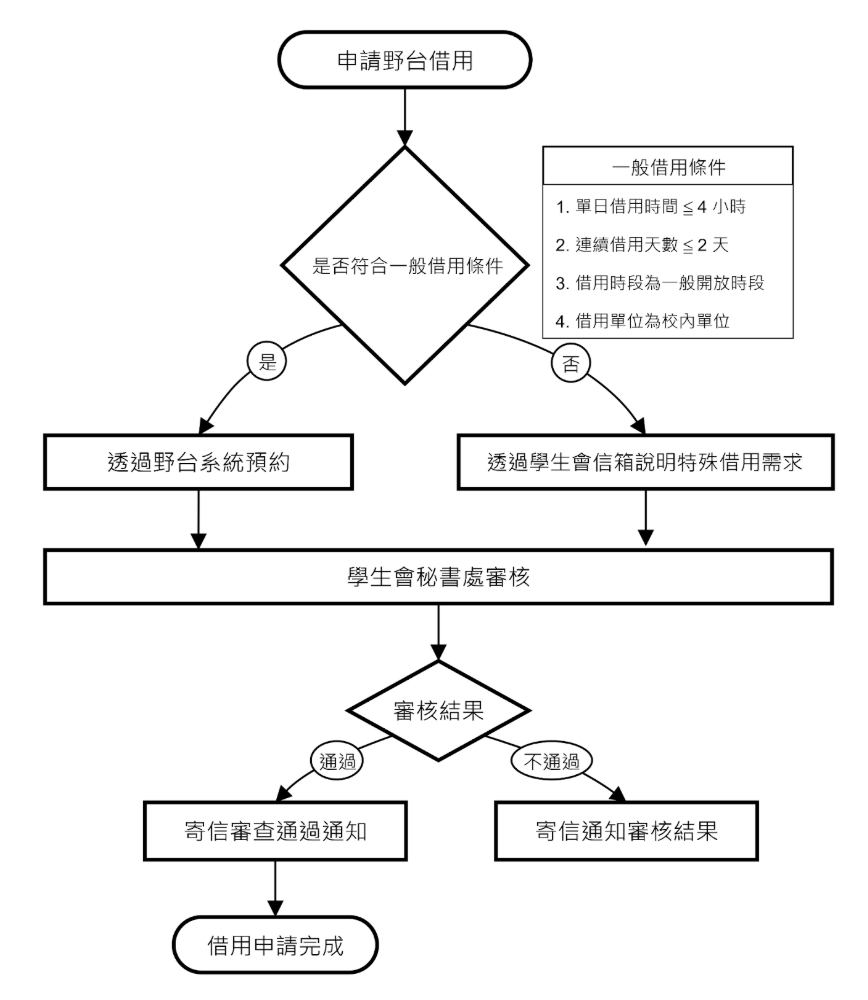
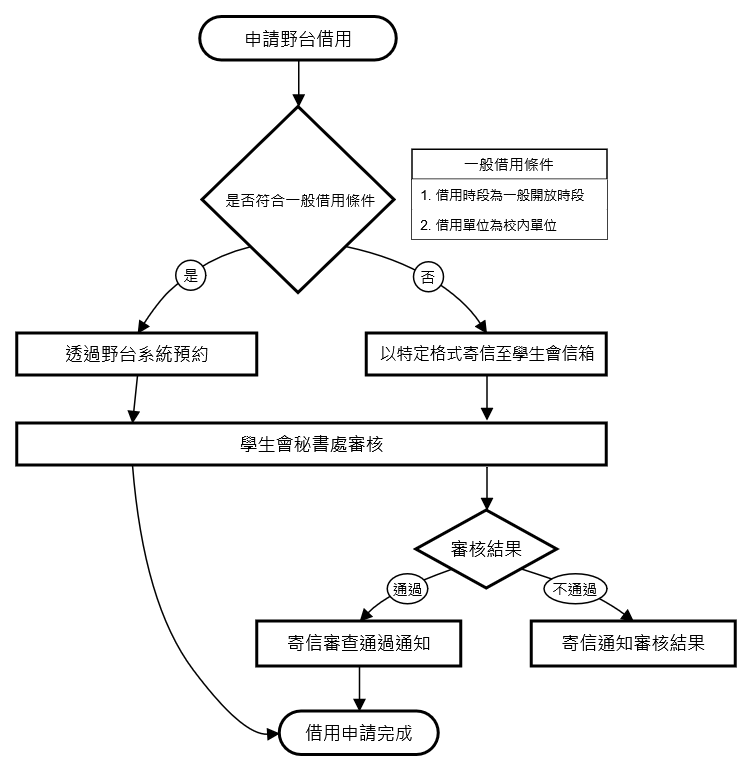
feat: update rule page

diff --git a/src/app/dashboard/rules/page.tsx b/src/app/dashboard/rules/page.tsx
@@ -54,11 +54,10 @@ export default function RulesPage() {
               <p className="text-sm leading-relaxed">
                 野台可透過本系統借用之時段為{" "}
                 <span className="font-semibold text-red-600">每日 8:00 A.M. 至 10:00 P.M.</span>
-                ，一日原則上最多借用{" "}
+                ，每日原則上最多借用{" "}
                 <span className="font-semibold text-red-600">4 小時</span>
-                ，一個月最多借用{" "}
-                <span className="font-semibold text-red-600">12 天</span>
-                ，若一次需借用 3 日以上或系統故障，請致信學生會信箱申請。
+                ，每個月最多借用{" "}
+                <span className="font-semibold text-red-600">12 天</span>。
               </p>
             </div>
             <div className="flex gap-3">
@@ -72,20 +71,22 @@ export default function RulesPage() {
             <div className="flex gap-3">
               <Badge variant="outline" className="shrink-0 mt-0.5">3</Badge>
               <p className="text-sm leading-relaxed">
-                若需借用{" "}
-                <span className="font-semibold">非開放時段</span>{" "}
-                或{" "}
-                <span className="font-semibold">連日借用</span>
-                ，請寄信至學生會信箱說明需求，經審核同意後方可借用。
-              </p>
-            </div>
-            <div className="flex gap-3">
-              <Badge variant="outline" className="shrink-0 mt-0.5">4</Badge>
-              <p className="text-sm leading-relaxed">
                 若需取消或異動，請於{" "}
                 <span className="font-semibold text-red-600">借用日前 2 日</span>{" "}
                 聯繫學生會。
               </p>
+            </div>
+            <div className="flex gap-3">
+              <Badge variant="outline" className="shrink-0 mt-0.5">4</Badge>
+              <div className="text-sm leading-relaxed">
+                <p>有下列情形，請依第六點「聯繫方式與例外申請」之規定辦理：</p>
+                <ul className="list-disc pl-5 mt-1 text-muted-foreground">
+                  <li>需借用非開放時段</li>
+                  <li>系統無法使用或發生異常</li>
+                  <li>其他特殊情形</li>
+                </ul>
+                <p className="mt-1">學生會得依申請內容及實際情況審核後決定是否同意借用。</p>
+              </div>
             </div>
           </div>
         </CardContent>
@@ -115,20 +116,11 @@ export default function RulesPage() {
               <Badge variant="outline" className="shrink-0 mt-0.5">2</Badge>
               <div className="text-sm leading-relaxed">
                 <p>
-                  校外單位以收費為借用原則，每{" "}
-                  <span className="font-semibold">2 小時</span>{" "}
-                  為一單位，不足 2 小時以 2 小時計，費用為{" "}
-                  <span className="font-semibold text-red-600">新臺幣 500 元整</span>
-                  ，若有特殊需求或價格疑問請透過學生會信箱說明。
+                  <span className="font-semibold">校外單位不得透過本系統申請借用野台。</span>
+                  <br />
+                  如有借用需求，應依第六點「聯繫方式與例外申請」之規定提出申請，經學生會審核後辦理借用事宜。
                 </p>
               </div>
-            </div>
-            <div className="flex gap-3">
-              <Badge variant="outline" className="shrink-0 mt-0.5">3</Badge>
-              <p className="text-sm leading-relaxed">
-                校外單位將繳費證明寄給學生會信箱期限在{" "}
-                <span className="font-semibold text-red-600">活動結束後 2 日前</span>。
-              </p>
             </div>
           </div>
         </CardContent>
@@ -144,14 +136,16 @@ export default function RulesPage() {
         </CardHeader>
         <CardContent className="space-y-4">
           <p className="text-sm leading-relaxed">
-            野台分區從面對小吃部方向，分為{" "}
-            <span className="font-semibold">「中間、左邊、右邊、座椅區」</span>{" "}
-            共四區，每次借用{" "}
-            <span className="font-semibold text-red-600">以一區為原則且不得跨區使用</span>
-            ，若有特殊借用需求可透過學生會信箱寄信提出。
+            野台分區以面對小吃部方向為準，分為{" "}
+            <span className="font-semibold" style={{ color: "#dca43c" }}>「右區」</span>、
+            <span className="font-semibold" style={{ color: "#467e39" }}>「中間區」</span>、
+            <span className="font-semibold" style={{ color: "#b642c0" }}>「左區」</span>、
+            <span className="font-semibold" style={{ color: "#332c9b" }}>「座位區」</span>{" "}
+            共四區。<br />
+            每次借用 <span className="font-semibold text-red-600">以一區為原則且不得跨區使用</span>。
           </p>
           <p className="text-sm leading-relaxed text-muted-foreground">
-            若有同時段不同借用者同時使用野台情況，請自行協調或透過學生會信箱向另一借用單位協調借用區域範圍。
+            如有同時借用多區或其他特殊需求者，請依第六點「聯繫方式與例外申請」之規定辦理。
           </p>
 
           {/* 野台位置示意圖 placeholder */}
@@ -181,12 +175,12 @@ export default function RulesPage() {
         </CardContent>
       </Card>
 
-      {/* 四、使用規範與器材 */}
+      {/* 四、使用規範 */}
       <Card>
         <CardHeader>
           <CardTitle className="flex items-center gap-2">
             <Zap className="h-5 w-5" />
-            四、使用規範與器材
+            四、使用規範
           </CardTitle>
         </CardHeader>
         <CardContent className="space-y-4">
@@ -195,10 +189,9 @@ export default function RulesPage() {
               <Badge variant="outline" className="shrink-0 mt-0.5">1</Badge>
               <div className="text-sm leading-relaxed">
                 <p>
-                  <span className="font-semibold">電力使用：</span>
-                  僅提供{" "}
-                  <span className="font-semibold">3 個 110V 插頭</span>
-                  。若有大型用電需求，請務必事前與學生會商議並取得同意。
+                  野台提供 {" "}
+                  <span className="font-semibold">3 個 110V 插座</span>位於無障礙坡道牆面，插座位置如分區示意圖所標示。
+                  若有大型用電需求，請務必事前與學生會商議並取得同意方可使用。
                 </p>
               </div>
             </div>
@@ -206,8 +199,11 @@ export default function RulesPage() {
               <Badge variant="outline" className="shrink-0 mt-0.5">2</Badge>
               <div className="text-sm leading-relaxed">
                 <p>
-                  <span className="font-semibold">器材準備：</span>
-                  學生會僅提供「場地」，不提供桌椅等器材。如有需求請參考「課外組器材管理要點」自行籌措。
+                  學生會僅提供「場地」，不提供桌椅等器材。如有需求請參考「課外組器材管理要點」，於{" "}
+                  <a href="https://club.site.nthu.edu.tw/" target="_blank" rel="noreferrer" className="text-blue-600 hover:underline dark:text-blue-400 font-semibold">
+                    國立清華大學社團管理系統
+                  </a>{" "}
+                  申請租借器材。
                 </p>
               </div>
             </div>
@@ -215,8 +211,7 @@ export default function RulesPage() {
               <Badge variant="outline" className="shrink-0 mt-0.5">3</Badge>
               <div className="text-sm leading-relaxed">
                 <p>
-                  <span className="font-semibold">場地恢復：</span>
-                  借用單位須負場地安全與整潔責任。使用結束時，須將物品淨空並恢復原狀。若造成場地或設施損壞，須負修復或賠償責任。
+                  借用單位須負場地安全與整潔責任。使用結束時，須將物品淨空並恢復借用前狀況。若造成場地或設施損壞，須負修復或賠償責任。
                 </p>
               </div>
             </div>
@@ -271,22 +266,41 @@ export default function RulesPage() {
           </div>
         </CardContent>
       </Card>
-
-      {/* 聯繫資訊 */}
+六、例外申請及聯繫方式 */
       <Card>
         <CardHeader>
           <CardTitle className="flex items-center gap-2">
             <Mail className="h-5 w-5" />
-            聯繫方式
+            六、例外申請及聯繫方式
           </CardTitle>
         </CardHeader>
-        <CardContent>
-          <p className="text-sm leading-relaxed">
-            如有任何問題或特殊需求，請寄信至學生會信箱：
-            <a href={`mailto:${SA_EMAIL}`} className="ml-1 font-semibold text-blue-600 hover:underline dark:text-blue-400">
-              {SA_EMAIL}
-            </a>
-          </p>
+        <CardContent className="space-y-4">
+          <div className="space-y-2">
+            <h4 className="font-semibold text-sm bg-secondary/50 p-2 rounded w-fit">【校內單位特殊申請】（限學生社團及校內單位）</h4>
+            <p className="text-sm text-muted-foreground">如有下列情形，請依本點規定提出申請：</p>
+            <ul className="list-disc pl-5 text-sm space-y-1">
+              <li>借用非開放時段</li>
+              <li>同時段借用多區</li>
+              <li>系統無法使用或發生異常</li>
+              <li>其他特殊情形</li>
+            </ul>
+            <p className="text-sm">學生會得依申請內容及實際情況審核後決定是否同意借用。</p>
+          </div>
+
+          <div className="space-y-2">
+            <h4 className="font-semibold text-sm bg-secondary/50 p-2 rounded w-fit">【校外單位申請】（限企業及校外單位）</h4>
+            <p className="text-sm">校外單位不得透過本系統申請借用野台，如有需求，須透過電子郵件提出申請，經審核同意後辦理。</p>
+          </div>
+
+          <div className="space-y-2">
+            <h4 className="font-semibold text-sm bg-secondary/50 p-2 rounded w-fit">【一般聯繫方式】</h4>
+            <p className="text-sm leading-relaxed">
+              如有其他問題，請寄信至學生會信箱：
+              <a href={`mailto:${SA_EMAIL}`} className="ml-1 font-semibold text-blue-600 hover:underline dark:text-blue-400">
+                {SA_EMAIL}
+              </a>
+            </p>
+          </div>
         </CardContent>
       </Card>
 
@@ -299,17 +313,17 @@ export default function RulesPage() {
           {/* 簡易文字流程 */}
           <div className="flex flex-wrap items-center gap-2 text-sm text-muted-foreground">
             {[
-              "填寫借用申請表單",
-              "學生會審核申請",
-              "審核通過，確認借用",
-              "借用單位使用場地",
-              "使用完畢，恢復場地原狀",
+              "提出借用申請",
+              "學生會審核",
+              "審核通過並完成預約",
+              "依申請時段使用場地",
+              "使用完畢恢復場地",
             ].map((step, index, arr) => (
-              <div key={step} className="flex items-center gap-2">
+              <div key={step} className="flex items-center gap-2 mb-2">
                 <span className="font-medium text-foreground px-2 py-1 bg-secondary rounded-md">
                   {step}
                 </span>
-                {index < arr.length - 1 && <span>→</span>}
+                {index < arr.length - 1 && <span className="text-muted-foreground/50">→</span>}
               </div>
             ))}
           </div>
